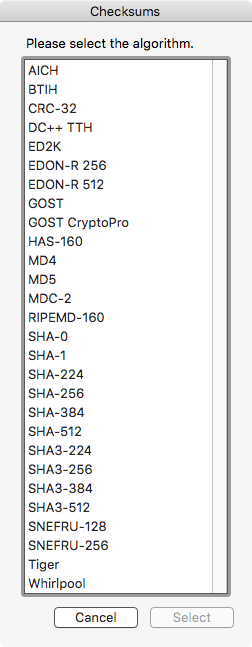
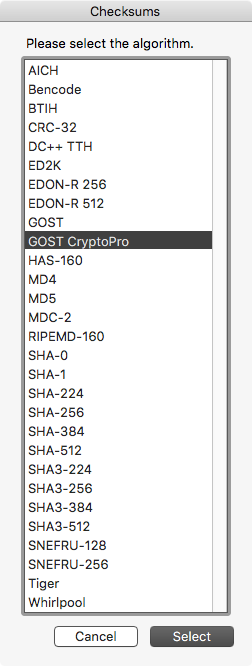
v1.3.0

Changed region(s): [[0.0833, 0.0, 0.9444, 0.9892]]

diff --git a/README.md b/README.md
@@ -1,6 +1,7 @@
 ![Checksums-platform-macos](https://img.shields.io/badge/platform-macOS-lightgrey.svg)
 ![Checksums-code-shell](https://img.shields.io/badge/code-shell-yellow.svg)
 [![Checksums-depend-rhash](https://img.shields.io/badge/dependency-rhash%201.7.1-green.svg)](https://github.com/rhash/RHash)
+[![Checksums-depend-transm](https://img.shields.io/badge/dependency-rhash%202.9.2-green.svg)](https://github.com/transmission/transmission-releases)
 [![Checksums-depend-tnote](https://img.shields.io/badge/dependency-terminal--notifier%201.3.4-green.svg)](https://github.com/alloy/terminal-notifier)
 [![Checksums-license](http://img.shields.io/badge/license-MIT+-blue.svg)](https://github.com/JayBrown/Checksums/blob/master/license.md)
 
@@ -10,7 +11,7 @@
 Minimum OS: **OS X 10.8**
 
 ## Supported algorithms
-### native to macOS
+### Native to macOS
 * CRC-32
 * MD5-length: MD4, MD5, MDC-2
 * SHA1-length: SHA-1, SHA-0, RIPEMD-160
@@ -25,9 +26,13 @@ Minimum OS: **OS X 10.8**
 * EDON-R 256, GOST, GOST CryptoPro, SNEFRU-256
 * EDON-R 512, Whirlpool
 
+### transmission
+* Bencode
+
 ### Notes
 * **MD2** calculation produces an error with `openssl` for macOS, so it is *not enabled*
 * **AICH** and **DC++ TTH** (part of `rhash`) are not available for automatic checksum comparison
+* **Bencode** will work on `.torrent` files only
 
 ## Functionality
 * default algorithm: SHA-256
@@ -35,6 +40,7 @@ Minimum OS: **OS X 10.8**
 * copies all information incl. filename to clipboard
 * parses clipboard content for possible checksums and auto-compares to calculated checksum
 * lots of additional checksum options, if the user has installed `rhash`
+* BitTorrent file hash calculation is possible, if the user has installed `transmission`
 
 ## Installation
 * [Download the latest DMG](https://github.com/JayBrown/Checksums/releases) and open
@@ -72,6 +78,12 @@ You need to have Spotlight enabled for `mdfind` to locate the terminal-notifier.
 More information: [rhash](https://github.com/rhash/RHash)
 
 * install using [Homebrew](http://brew.sh) with `brew install rhash` (or with a similar manager)
+
+### transmission [optional]
+More information: [transmission](https://github.com/transmission/transmission-releases)
+
+* install using [Homebrew](http://brew.sh) with `brew install transmission` (or with a similar manager)
+* **Checksum** will use only the `transmission-show` binary
 
 ## Screengrabs
 ![checksum-main](https://github.com/JayBrown/Checksums/blob/master/img/checksums-main.png)
